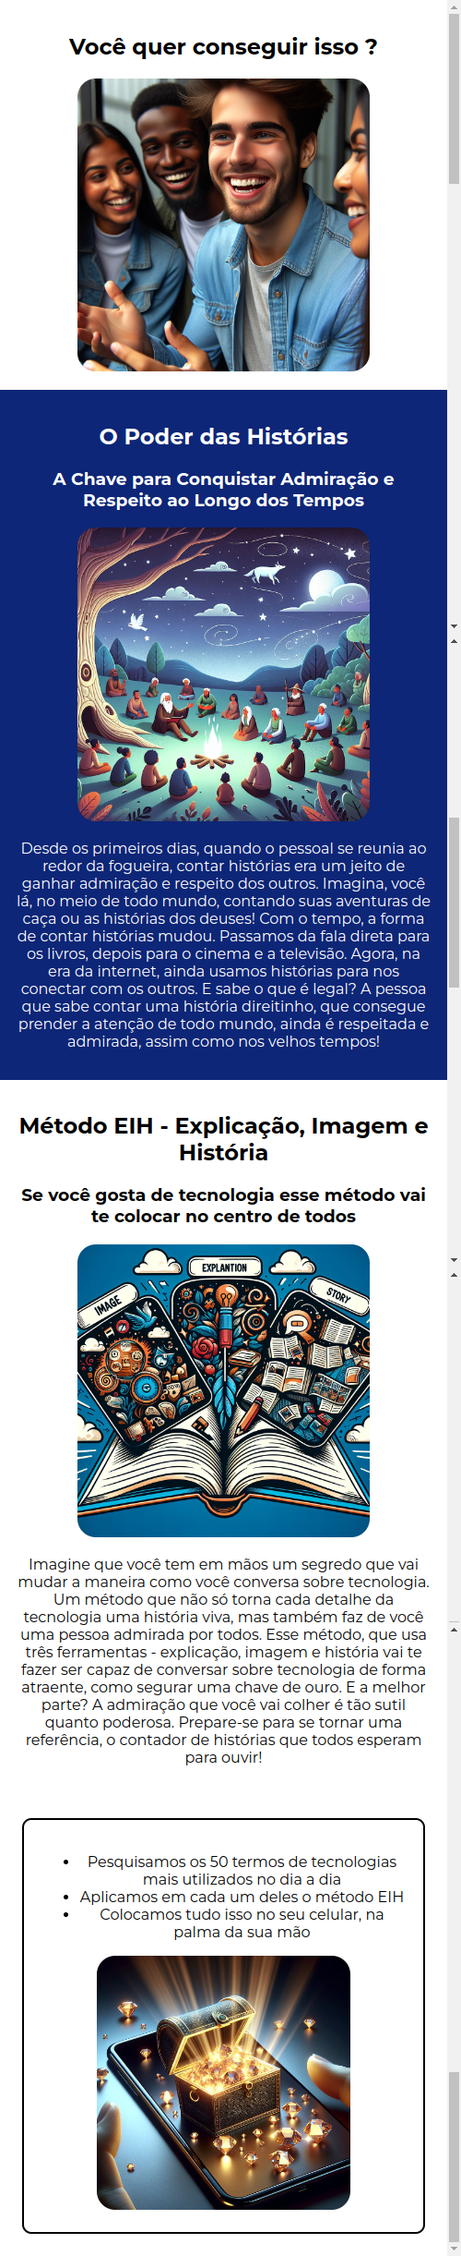
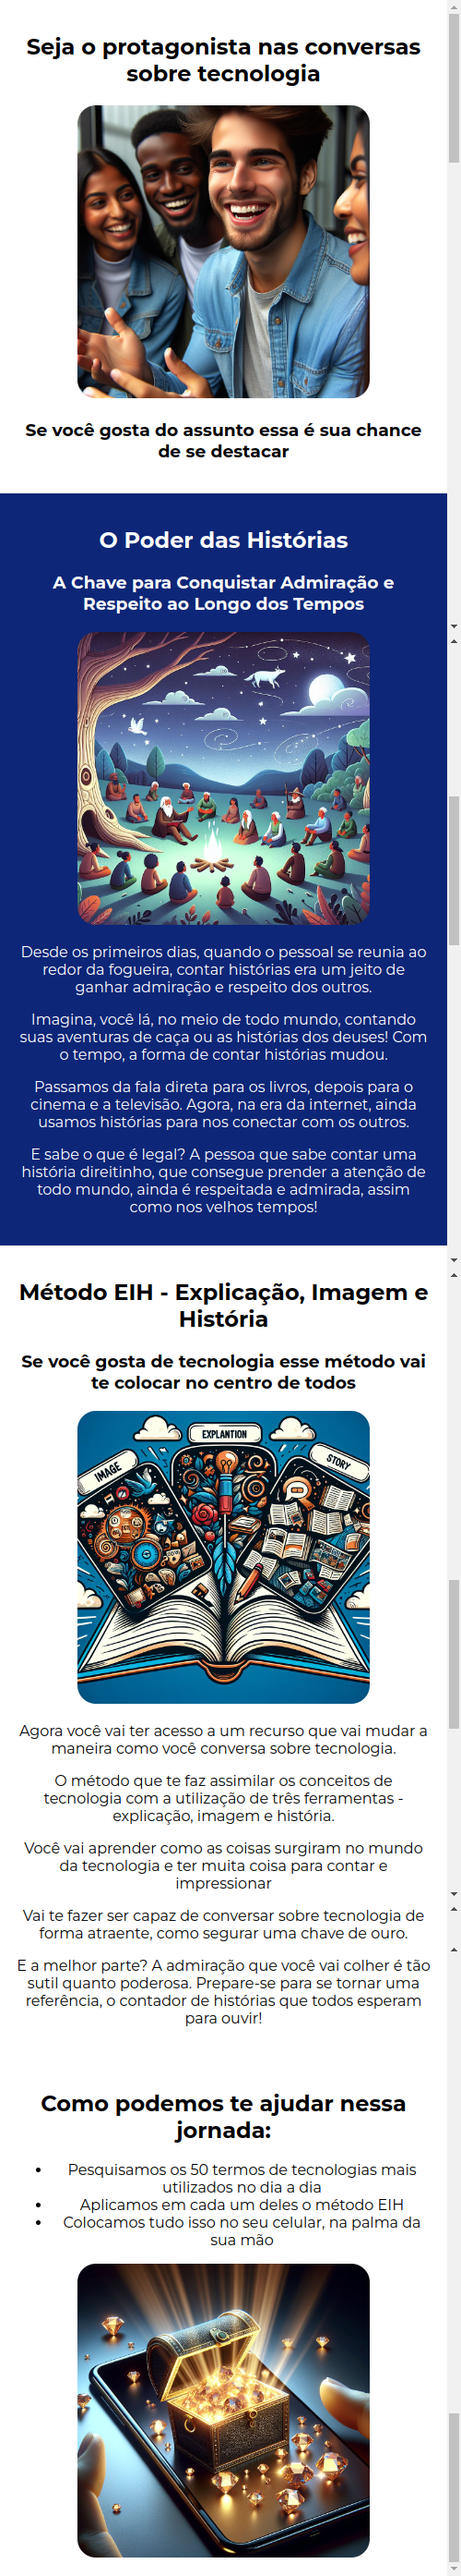
Remover arquivo grande e configurar Git LFS

diff --git a/pagina-venda-aberta/index.html b/pagina-venda-aberta/index.html
@@ -31,16 +31,24 @@
 <h2>O Poder das Histórias</h2>
 <h3>A Chave para Conquistar Admiração e Respeito ao Longo dos Tempos</h3>
 <img style="border-radius: 20px; width: 70%" src="https://www.marketingpalf.shop/imagens/d9df88383b0039942547d10a42a864-80.jpg"/>
-<p>Desde os primeiros dias, quando o pessoal se reunia ao redor da fogueira, contar histórias era um jeito de ganhar admiração e respeito dos outros. Imagina, você lá, no meio de todo mundo, contando suas aventuras de caça ou as histórias dos deuses! Com o tempo, a forma de contar histórias mudou. Passamos da fala direta para os livros, depois para o cinema e a televisão. Agora, na era da internet, ainda usamos histórias para nos conectar com os outros. E sabe o que é legal? A pessoa que sabe contar uma história direitinho, que consegue prender a atenção de todo mundo, ainda é respeitada e admirada, assim como nos velhos tempos!</p>
+<p>Desde os primeiros dias, quando o pessoal se reunia ao redor da fogueira, contar histórias era um jeito de ganhar admiração e respeito dos outros.</p>
+<p>Imagina, você lá, no meio de todo mundo, contando suas aventuras de caça ou as histórias dos deuses! Com o tempo, a forma de contar histórias mudou.</p>
+<p>Passamos da fala direta para os livros, depois para o cinema e a televisão. Agora, na era da internet, ainda usamos histórias para nos conectar com os outros.</p>
+<p>E sabe o que é legal? A pessoa que sabe contar uma história direitinho, que consegue prender a atenção de todo mundo, ainda é respeitada e admirada, assim como nos velhos tempos!</p>
 </section>
 <section style="text-align: center;">
 <h2>Método EIH - Explicação, Imagem e História</h2>
 <h3>Se você gosta de tecnologia esse método vai te colocar no centro de todos</h3>
 <img style="border-radius: 20px; width: 70%" src="https://www.marketingpalf.shop/imagens/65bcd1d27d354a37c2b828436c67b9-80.jpg"/>
-<p>Imagine que você tem em mãos um segredo que vai mudar a maneira como você conversa sobre tecnologia. Um método que não só torna cada detalhe da tecnologia uma história viva, mas também faz de você uma pessoa admirada por todos. Esse método, que usa três ferramentas - explicação, imagem e história vai te fazer ser capaz de conversar sobre tecnologia de forma atraente, como segurar uma chave de ouro. E a melhor parte? A admiração que você vai colher é tão sutil quanto poderosa. Prepare-se para se tornar uma referência, o contador de histórias que todos esperam para ouvir!</p>
+<p>Agora você vai ter acesso a um recurso que vai mudar a maneira como você conversa sobre tecnologia.</p>
+<p>O método que te faz assimilar os conceitos de tecnologia com a utilização de três ferramentas - explicação, imagem e história.</p>
+<p>Você vai aprender como as coisas surgiram no mundo da tecnologia e ter muita coisa para contar e impressionar</p> 
+<p>Vai te fazer ser capaz de conversar sobre tecnologia de forma atraente, como segurar uma chave de ouro.</p>
+<p>E a melhor parte? A admiração que você vai colher é tão sutil quanto poderosa. Prepare-se para se tornar uma referência, o contador de histórias que todos esperam para ouvir!</p>
 </section>
 
-<section style="text-align: center; border: 2px solid #000; border-radius: 10px; padding: 20px; margin: 24px">
+<section style="text-align: center;">
+<h2>Como podemos te ajudar nessa jornada:</h2>
 <ul>
 <li>Pesquisamos os 50 termos de tecnologias mais utilizados no dia a dia</li>
 <li>Aplicamos em cada um deles o método EIH</li>

diff --git a/fontes-estruturado/principal/obtemimagempaginavendaaberta/src/main/java/gerador/obtemimagempaginavendaaberta/app/ObtemImagemPaginaVendaAberta.java b/fontes-estruturado/principal/obtemimagempaginavendaaberta/src/main/java/gerador/obtemimagempaginavendaaberta/app/ObtemImagemPaginaVendaAberta.java
@@ -47,7 +47,7 @@ public class ObtemImagemPaginaVendaAberta {
 		//Properties prop = new Properties();
 		//prop.load(input);
 		//UrlLoopback = prop.getProperty("loopback.url");
-		UrlLoopback = "http://localhost:23101/api";
+		UrlLoopback = "http://vps-40d69db1.vps.ovh.ca:23101/api";
 		DaoBaseComum.setUrl(UrlLoopback);
 	}
 
